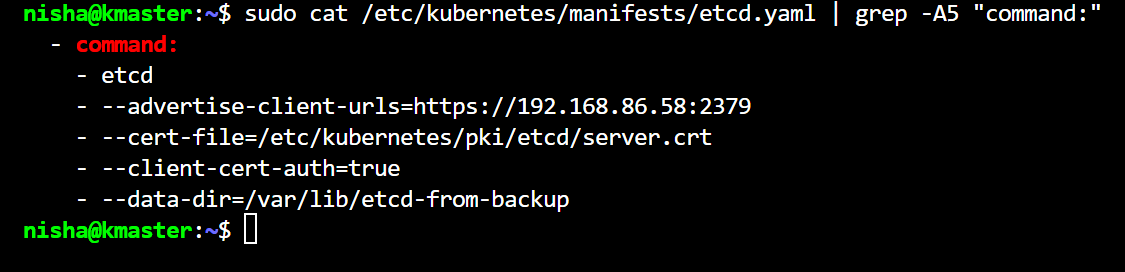
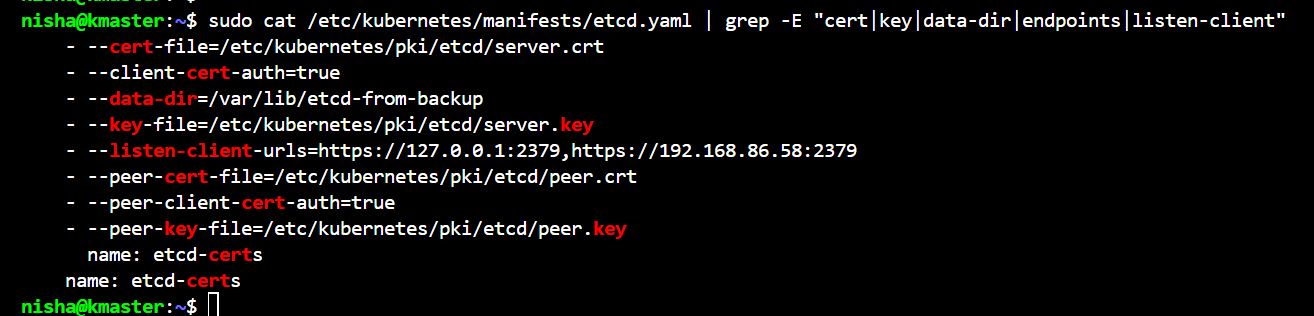
Update etcd documentation with improved verification steps and resource links

diff --git a/docs/02-cka-domains/01-cluster-architecture.md b/docs/02-cka-domains/01-cluster-architecture.md
@@ -148,8 +148,9 @@ etcd task:
 which etcdctl && which etcdutl
 ```
 
-If either is missing, refer to the install procedure in
-`projects/01-kubeadm-cluster-build.md`.
+If either is missing, check the official Kubernetes documentation at
+https://kubernetes.io/docs/tasks/administer-cluster/configure-upgrade-etcd/
+for guidance on the exam cluster's etcd version and available tooling.
 
 ---
 
@@ -162,10 +163,14 @@ If either is missing, refer to the install procedure in
 | Server key | `/etc/kubernetes/pki/etcd/server.key` |
 | Endpoint | `https://127.0.0.1:2379` |
 
-Verify cert paths from the static pod manifest if unsure:
+Verify cert paths, endpoint, and data directory from the static pod manifest:
+
 ```bash
-sudo cat /etc/kubernetes/manifests/etcd.yaml | grep -A5 "command:"
+sudo cat /etc/kubernetes/manifests/etcd.yaml | grep -E "cert|key|data-dir|endpoints|listen-client"
 ```
+
+This surfaces all cert paths, the data directory, and the client endpoint in
+one pass without reading the full manifest.
 
 <!-- SCREENSHOT: etcd-01-cert-paths.png -->
 <!-- Shows: grep output from etcd.yaml displaying cert-file path and data-dir -->
@@ -303,42 +308,38 @@ sudo etcdutl --data-dir /var/lib/etcd-restored snapshot restore /opt/etcd-backup
 <!-- Shows: etcdutl restore log output confirming path, wal-dir, data-dir, snap-dir, and "restored snapshot" -->
 ![snapshot restore output](../../assets/etcd-05-snapshot-restore.png)
 
-**Step 5: Update the etcd manifest in both places before moving it back**
+**Step 5: Update only the hostPath.path in the etcd manifest**
+
+Only one change is needed in the manifest. The `--data-dir` flag and
+`volumeMounts.mountPath` inside the container stay the same. Only the
+host-side directory path changes, which controls which directory on the
+node gets mounted into the container.
 
 ```bash
 sudo vi /tmp/etcd.yaml
 ```
 
-Use find and replace in vi to catch both lines at once:
-```
-:%s/\/var\/lib\/etcd$/\/var\/lib\/etcd-restored/g
-```
-
-Place 1: the `--data-dir` flag under `spec.containers.command`:
+Find the volumes section at the bottom of the file and update only this:
 
 ```yaml
-- --data-dir=/var/lib/etcd-restored
-```
-
-<!-- SCREENSHOT: etcd-06-manifest-command.png -->
-<!-- Shows: vi with --data-dir=/var/lib/etcd-restored highlighted under command section -->
-![manifest data-dir flag](../../assets/etcd-06-manifest-command.png)
-
-Place 2: the `hostPath.path` under `spec.volumes`:
-
-```yaml
+# Change:
+  volumes:
   - hostPath:
-      path: /var/lib/etcd-restored
+      path: /var/lib/etcd
+      type: DirectoryOrCreate
+    name: etcd-data
+
+# To:
+  volumes:
+  - hostPath:
+      path: /var/lib/etcd-from-backup
+      type: DirectoryOrCreate
     name: etcd-data
 ```
 
-<!-- SCREENSHOT: etcd-07-manifest-volume.png -->
-<!-- Shows: vi with hostPath.path=/var/lib/etcd-restored updated under volumes section -->
-![manifest hostPath volume](../../assets/etcd-07-manifest-volume.png)
-
-Missing the hostPath update is the most common restore failure. etcd starts
-but reads from the wrong directory. Symptom: etcd-kmaster absent from pod
-list, kube-scheduler shows 0/1.
+<!-- SCREENSHOT: etcd-06-manifest-volume.png -->
+<!-- Shows: vi with hostPath.path updated to new restored directory under volumes section -->
+![manifest hostPath volume](../../assets/etcd-06-manifest-volume.png)
 
 Save and exit:
 ```
@@ -412,11 +413,11 @@ official recommendation. Use Approach 1 as the default.
 ls -lh /opt/backup-*.db
 
 # Restore to new data directory
-sudo etcdutl --data-dir /var/lib/etcd-restored snapshot restore /opt/etcd-backup.db
+sudo etcdutl --data-dir /var/lib/etcd-from-backup snapshot restore /opt/etcd-backup.db
 
-# Update etcd.yaml in both places (live manifest, not /tmp)
+# Update only hostPath.path in the live manifest
 sudo vi /etc/kubernetes/manifests/etcd.yaml
-# :%s/\/var\/lib\/etcd$/\/var\/lib\/etcd-restored/g
+# Find volumes section, change path: /var/lib/etcd to path: /var/lib/etcd-from-backup
 
 # Wait for etcd to restart (API server will timeout briefly, this is normal)
 watch kubectl get pods -n kube-system
@@ -443,8 +444,9 @@ kubectl get deployments && kubectl get namespaces
 1. Snapshot order matters. Correct drill sequence:
    `create --> backup --> delete --> restore --> verify`
 
-2. Two-place edit in etcd.yaml: both `--data-dir` flag and
-   `volumes.hostPath.path` must point to the new directory.
+2. Only one edit needed in etcd.yaml: only `volumes.hostPath.path` needs
+   to change. The `--data-dir` flag and `volumeMounts.mountPath` inside
+   the container stay the same. Only the host-side directory path changes.
 
 3. etcd distroless image: no shell, no cat, no tar in etcd v3.5+
    containers. Drop the `sh -c` wrapper and call etcdctl directly.
@@ -458,8 +460,10 @@ kubectl get deployments && kubectl get namespaces
    exact filename before running restore.
 
 6. Tool availability: run `which etcdctl && which etcdutl` before starting
-   any etcd task on the exam cluster. If either is missing, use the tarball
-   install procedure in projects/01-kubeadm-cluster-build.md.
+   any etcd task on the exam cluster. The exam environment should have both
+   available. If not, the official reference page is the only resource
+   accessible during the exam:
+   https://kubernetes.io/docs/tasks/administer-cluster/configure-upgrade-etcd/
 
 7. etcd v3.6 on CKA exam: the exam runs Kubernetes v1.35 with etcd
    v3.6.x. etcdctl restore and etcdctl status are removed in v3.6. Use